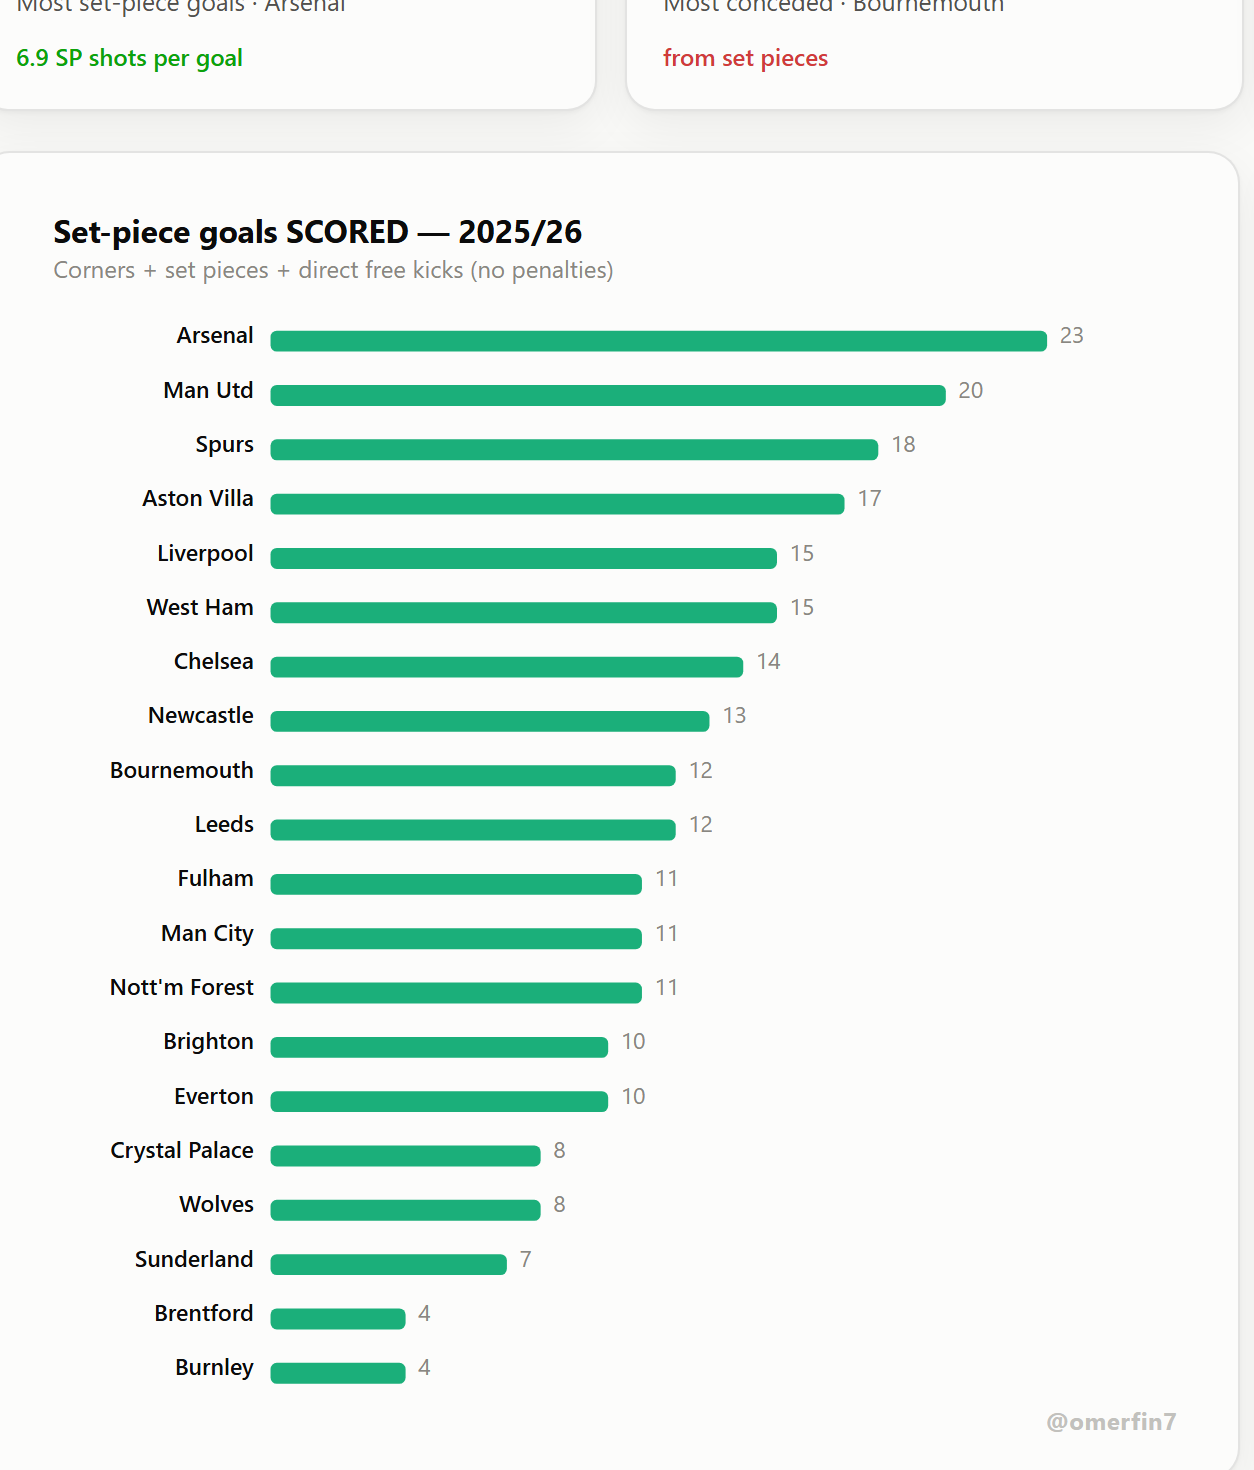
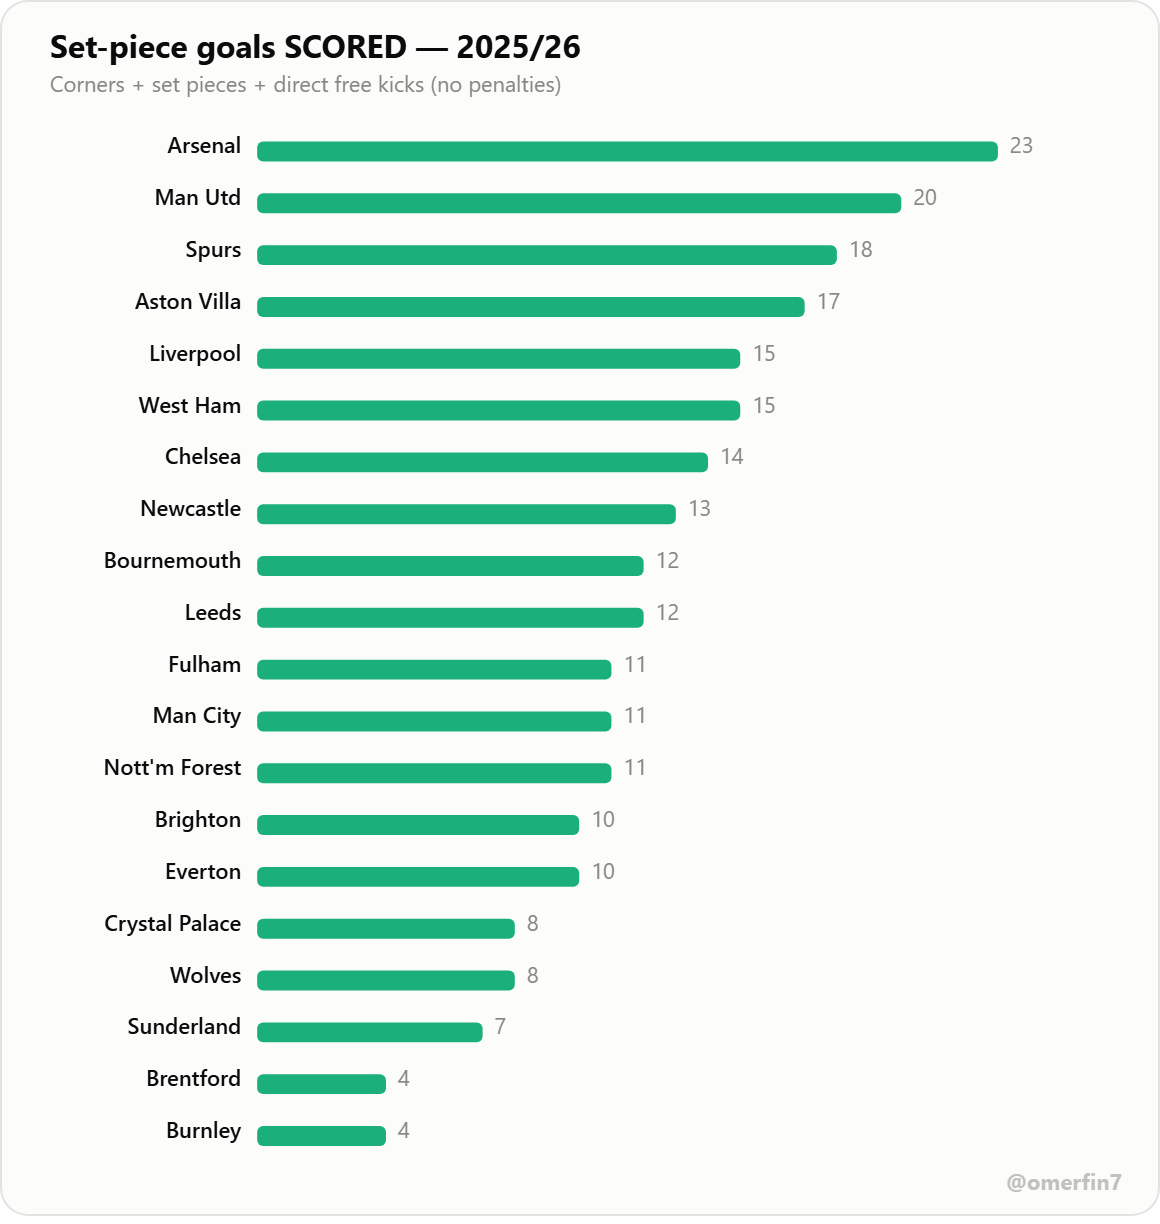
Regenerate the README preview images, and make it a one-command job
The PNGs in docs/examples/ were screenshots of an older build, so they still
showed titles, labels and numbers this branch had already corrected. Four were
actively contradicting the text:

- home-advantage.png carried the retracted title "Home advantage is back" while
  its own lines showed away ahead of home in 2024/25
- set-pieces-corners.png and who-to-trust-2025-26.png showed the mislabeled
  end-of-row numbers (Wolves' "3.42" printed at the tip of the 6.00 conceded
  bar; Spurs' overall 24% at the tip of its away bar) and the old tight spacing
- set-piece-efficiency.png predated the "overlapping intervals are
  indistinguishable" subtitle

All ten are regenerated, and two new charts are added to the gallery: the
goals-per-match Poisson distribution, and the position-correct defensive-actions
top 15 (which now reads 11 MID / 4 DEF with Anderson first, instead of the old
15-of-15 defenders).

Added tools/export_examples.js so this stops rotting. It runs the dashboard's
own chart code out of docs/index.html under a small DOM shim, serializes each
chart to a standalone styled SVG, and screenshots it with headless Chrome/Edge
at 2x. Because the drawing code is the real one, the images cannot drift from
the dashboard — only the chart list in that file can, and it exits non-zero if a
listed selector is missing. Documented in README under "Refreshing the preview
images".

One bug worth recording, found by looking at the output rather than trusting it:
[…]

Changed region(s): [[0.0, 0.0, 0.9, 0.9624], [0.5276, 0.0, 0.8069, 0.0621], [0.8379, 0.9624, 0.9621, 0.9935]]

diff --git a/tools/export_examples.js b/tools/export_examples.js
@@ -1,0 +1,157 @@
+/**
+ * Regenerate the README preview images in docs/examples/.
+ *
+ *   node tools/export_examples.js            # after running build_dashboard.py
+ *
+ * Why this exists: those PNGs are screenshots, so they go stale silently whenever
+ * a chart title, label or number changes — and they did. This runs the dashboard's
+ * OWN chart code out of docs/index.html under a minimal DOM shim, serializes each
+ * chart to a standalone styled SVG, then screenshots it with headless Chrome/Edge.
+ * Because the drawing code is the real one, the images cannot drift from the
+ * dashboard; only this file's chart list can go out of date.
+ *
+ * Requires: Node, and Chrome or Edge installed (override with CHROME_PATH).
+ */
+const fs = require('fs');
+const path = require('path');
+const { execFileSync } = require('child_process');
+
+const ROOT = path.resolve(__dirname, '..');
+const OUT = path.join(ROOT, 'docs', 'examples');
+const TMP = fs.mkdtempSync(path.join(require('os').tmpdir(), 'pl-charts-'));
+
+// Which dashboard charts become README images. Selector -> output basename.
+const CHARTS = [
+  { sel: '#c_cs',      name: 'clean-sheets-per-game' },
+  { sel: '#c_btts',    name: 'both-teams-to-score' },
+  { sel: '#c_dist',    name: 'goals-per-match-poisson' },
+  { sel: '#c_teams',   name: 'who-to-trust-2025-26' },
+  { sel: '#c_ha',      name: 'home-advantage' },
+  { sel: '#c_dcpts',   name: 'defcon-top15' },
+  { sel: '#c_cbittop', name: 'defensive-actions-top15' },
+  { sel: '#c_spteams', name: 'set-pieces-corners' },
+  { sel: '#c_spgfor',  name: 'set-piece-goals-scored' },
+  { sel: '#c_spgeff',  name: 'set-piece-efficiency' },
+];
+
+const html = fs.readFileSync(path.join(ROOT, 'docs', 'index.html'), 'utf8');
+const css = html.match(/<style>([\s\S]*?)<\/style>/)[1];
+const script = html.match(/<script[^>]*>([\s\S]*?)<\/script>/)[1];
+
+// Resolve the light-theme CSS custom properties so cv() returns the real palette.
+const VARS = {};
+for (const m of css.match(/:root\s*\{([\s\S]*?)\}/)[1].matchAll(/(--[\w-]+)\s*:\s*([^;]+);/g)) {
+  VARS[m[1]] = m[2].trim();
+}
+
+const SVG_NS = 'http://www.w3.org/2000/svg';
+const esc = s => String(s).replace(/&/g, '&amp;').replace(/</g, '&lt;').replace(/>/g, '&gt;');
+const escAttr = s => esc(s).replace(/"/g, '&quot;');
+
+class Node {
+  constructor(tag) {
+    this.tag = tag; this.attrs = {}; this.kids = []; this._text = ''; this._html = '';
+    this.style = { setProperty() {} };
+    this.classList = { add() {}, remove() {}, toggle() {} };
+    this.dataset = {};
+  }
+  setAttribute(k, v) { this.attrs[k] = v; }
+  getAttribute(k) { return this.attrs[k] ?? null; }
+  appendChild(c) { this.kids.push(c); return c; }
+  removeChild(c) { this.kids = this.kids.filter(x => x !== c); }
+  insertBefore(c) { this.kids.unshift(c); return c; }
+  addEventListener() {} removeEventListener() {}
+  set textContent(v) { this._text = v; } get textContent() { return this._text; }
+  set innerHTML(v) { this._html = v; if (v === '') this.kids = []; } get innerHTML() { return this._html; }
+  querySelector() { return null; } querySelectorAll() { return []; }
+  closest() { return null; } contains() { return false; }
+  getBoundingClientRect() { return { width: 640, height: 360, left: 0, top: 0 }; }
+  cloneNode() { return this; } remove() {} focus() {} insertAdjacentHTML() {}
+  get firstChild() { return this.kids[0] || null; }
+  serialize() {
+    const a = Object.entries(this.attrs).map(([k, v]) => ` ${k}="${escAttr(v)}"`).join('');
+    // Deliberately not a truthiness test: textContent is legitimately the number 0
+    // on the goal-distribution x-axis, and a falsy check silently drops that label.
+    const has = this._text !== '' && this._text !== null && this._text !== undefined;
+    return `<${this.tag}${a}>${(has ? esc(this._text) : '') + this.kids.map(k => k.serialize()).join('')}</${this.tag}>`;
+  }
+}
+
+const hosts = {};
+global.window = global;
+global.document = {
+  createElementNS: (ns, t) => new Node(t),
+  createElement: t => new Node(t),
+  createTextNode: t => { const n = new Node('#text'); n._text = t; n.serialize = () => esc(t); return n; },
+  querySelector: sel => (hosts[sel] ||= new Node('div')),
+  querySelectorAll: () => [],
+  getElementById: () => new Node('div'),
+  addEventListener() {},
+  documentElement: {
+    style: { setProperty() {} }, getAttribute: () => 'light', setAttribute() {},
+    classList: { add() {}, remove() {} },
+  },
+  body: new Node('body'), head: new Node('head'),
+};
+global.getComputedStyle = () => ({ getPropertyValue: n => VARS[n.trim()] || '#000000' });
+global.matchMedia = () => ({ matches: false, addEventListener() {}, addListener() {} });
+global.localStorage = { getItem: () => null, setItem() {} };
+global.requestAnimationFrame = f => { f(0); return 1; };
+global.ResizeObserver = class { observe() {} disconnect() {} };
+global.navigator = { clipboard: { writeText: () => Promise.resolve() }, userAgent: 'node' };
+global.Blob = class {};
+global.URL = { createObjectURL: () => 'blob:x', revokeObjectURL() {} };
+
+eval(script);
+
+// Only the classes the SVGs reference, so an exported file stands alone.
+const SVG_CSS = `
+  .chart-h{fill:${VARS['--ink']};font-size:16px;font-weight:700}
+  .chart-sub{fill:${VARS['--muted']};font-size:11px}
+  .lgnd{fill:${VARS['--ink-2']};font-size:11px}
+  .wm{fill:${VARS['--muted']};font-size:11px;font-weight:700;opacity:.5}
+  .axis-lbl{fill:${VARS['--muted']};font-size:11px}
+  .val-lbl{fill:${VARS['--ink']};font-size:11px;font-weight:600}
+  text{font-family:'Segoe UI',system-ui,-apple-system,sans-serif}
+`;
+
+function findBrowser() {
+  const cands = [process.env.CHROME_PATH,
+    'C:/Program Files/Google/Chrome/Application/chrome.exe',
+    'C:/Program Files (x86)/Google/Chrome/Application/chrome.exe',
+    'C:/Program Files (x86)/Microsoft/Edge/Application/msedge.exe',
+    'C:/Program Files/Microsoft/Edge/Application/msedge.exe',
+    '/usr/bin/google-chrome', '/usr/bin/chromium',
+    '/Applications/Google Chrome.app/Contents/MacOS/Google Chrome',
+  ].filter(Boolean);
+  const hit = cands.find(p => { try { return fs.statSync(p).isFile(); } catch { return false; } });
+  if (!hit) throw new Error('No Chrome/Edge found — set CHROME_PATH to the executable');
+  return hit;
+}
+
+const browser = findBrowser();
+let missing = 0;
+for (const { sel, name } of CHARTS) {
+  const svg = (hosts[sel]?.kids || []).find(k => k.tag === 'svg');
+  if (!svg) { console.error(`  MISSING ${sel} — chart list out of date?`); missing++; continue; }
+  const [, , w, h] = (svg.attrs.viewBox || '0 0 600 400').split(/\s+/).map(Number);
+  const body = svg.serialize()
+    .replace(/^<svg/, `<svg xmlns="${SVG_NS}" width="${w}" height="${h}"`)
+    .replace(/>/, `><style>${SVG_CSS}</style>`);
+  const page = path.join(TMP, name + '.html');
+  fs.writeFileSync(page, `<!doctype html><meta charset="utf-8"><style>
+    html,body{margin:0;padding:0;background:transparent}
+    .card{background:${VARS['--surface']};border:1px solid ${VARS['--border']};border-radius:14px;
+          padding:6px 10px 4px;width:${w + 20}px;box-sizing:border-box}
+    svg{display:block;width:100%;height:auto}
+    </style><div class="card">${body}</div>`);
+  execFileSync(browser, ['--headless=new', '--disable-gpu', '--hide-scrollbars',
+    '--force-device-scale-factor=2', '--default-background-color=00000000',
+    `--window-size=${w + 20},${h + 14}`,
+    `--screenshot=${path.join(OUT, name + '.png')}`, 'file:///' + page.replace(/\\/g, '/'),
+  ], { stdio: 'ignore' });
+  console.log(`  ${name}.png  ${(w + 20) * 2}x${(h + 14) * 2}`);
+}
+fs.rmSync(TMP, { recursive: true, force: true });
+console.log(missing ? `\n${missing} chart(s) missing — fix CHARTS in this file` : '\nAll example images regenerated.');
+process.exitCode = missing ? 1 : 0;

diff --git a/README.md b/README.md
@@ -19,11 +19,19 @@ A few charts from the dashboard (each is a self-contained, shareable image). The
 | | |
 |---|---|
 | ![Clean sheets per game](docs/examples/clean-sheets-per-game.png) | ![Both teams to score](docs/examples/both-teams-to-score.png) |
-| ![Who to trust at the back 2025/26](docs/examples/who-to-trust-2025-26.png) | ![Home advantage](docs/examples/home-advantage.png) |
+| ![Who to trust at the back 2025/26](docs/examples/who-to-trust-2025-26.png) | ![The home clean-sheet edge](docs/examples/home-advantage.png) |
+
+**Goals per match — the distribution, against a fitted Poisson**
+
+![Goals per match, observed vs Poisson](docs/examples/goals-per-match-poisson.png)
 
 **DefCon points banked — 2025/26 (new player-level metric)**
 
 ![DefCon points banked, top 15](docs/examples/defcon-top15.png)
+
+**Most defensive actions — counted per position (defenders on CBIT; midfielders and forwards on CBIT + recoveries)**
+
+![Most defensive actions, top 15](docs/examples/defensive-actions-top15.png)
 
 **Set pieces — corners won vs conceded, 2025/26 (penalties excluded)**
 
@@ -68,6 +76,7 @@ defcon.py             2025/26 DefCon (player-level) pipeline → docs/defcon.jso
 setpieces.py          set-piece pipeline (corners + takers) → docs/setpieces.json
 fetch_setpiece_goals.py  set-piece GOALS from Understat → docs/setpieces_goals.json (run locally, see below)
 build_dashboard.py    builds the self-contained docs/index.html from the JSONs
+tools/export_examples.js  regenerates the README preview PNGs from the built dashboard
 docs/index.html       the interactive dashboard (GitHub Pages entry point)
 docs/data.json        league/team metrics consumed by the dashboard
 docs/defcon.json      player-level DefCon metrics
@@ -90,6 +99,16 @@ python setpieces.py        # set pieces (corners+takers) -> docs/setpieces.json
 python fetch_setpiece_goals.py   # set-piece GOALS from Understat -> docs/setpieces_goals.json  (run from a normal network — see note)
 python build_dashboard.py  # rebuilds docs/index.html from the JSONs
 ```
+
+### Refreshing the preview images
+
+The PNGs in [`docs/examples/`](docs/examples/) are screenshots, so they go stale silently whenever a chart's title, label or numbers change. Regenerate them all in one command after `build_dashboard.py`:
+
+```bash
+node tools/export_examples.js       # needs Node + Chrome or Edge (or set CHROME_PATH)
+```
+
+It runs the dashboard's **own** chart code out of `docs/index.html` under a small DOM shim, serializes each chart to a standalone SVG, and screenshots it at 2× — so the images cannot drift from what the dashboard actually draws. The only thing that can go out of date is the chart list at the top of that file, and it exits non-zero if a listed chart is missing.
 
 ### Set-piece goals (2025/26) — refreshing it later
 
